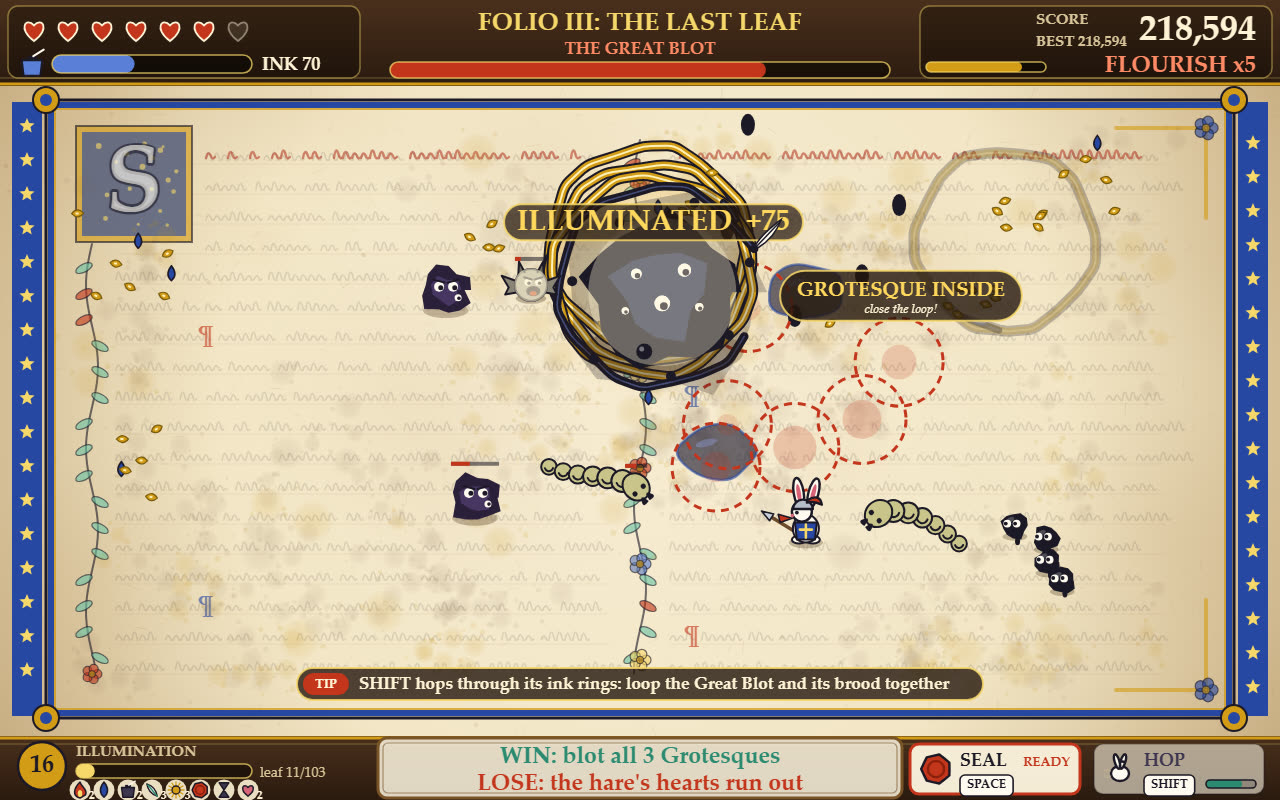
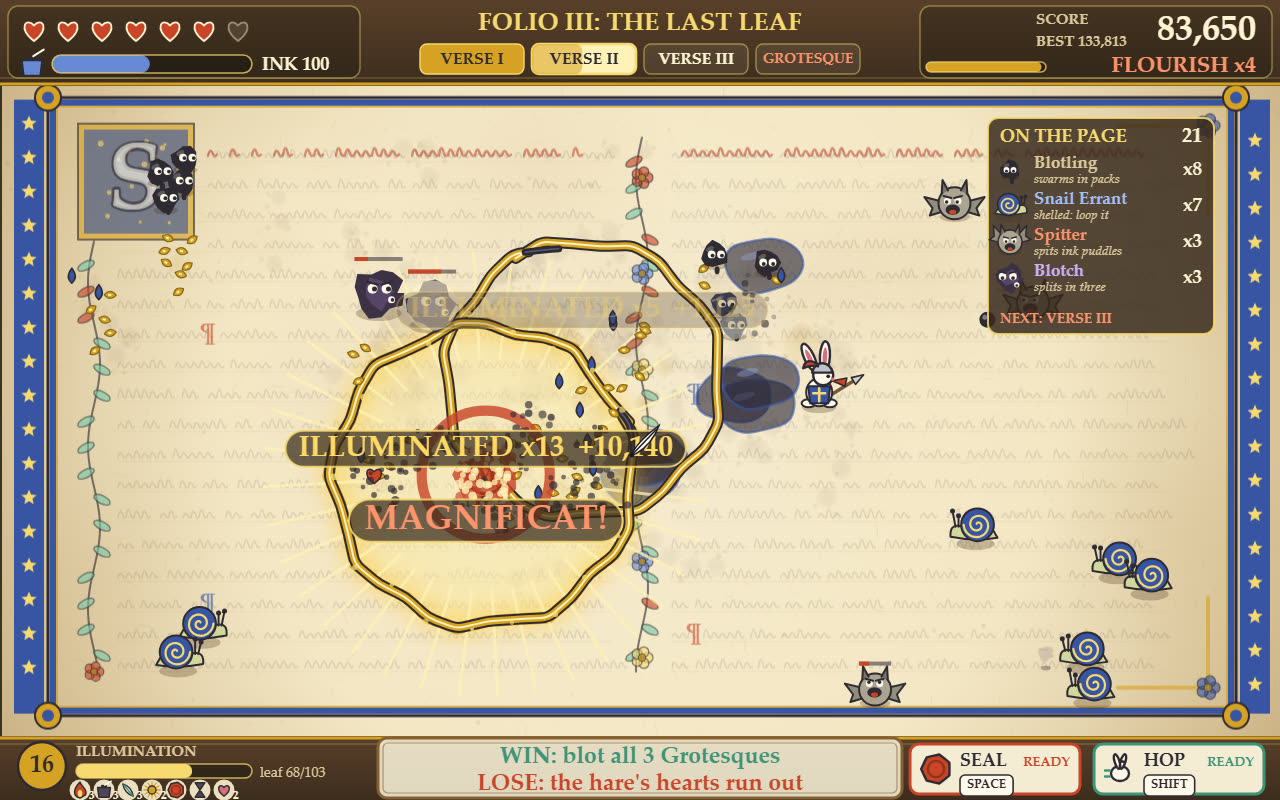
v7: v5 plus an ON THE PAGE roster (each foe kind on the page with its count, what it does, and what comes next)
Reverts v6's cover and HUD additions (v6 scored lower than v5).

diff --git a/game/src/ui/hud.js b/game/src/ui/hud.js
@@ -1,9 +1,9 @@
 // The heads-up display around the page: hearts and ink (left), folio, verse and boss (centre),
 // score, best and Flourish (right); level, rubrics, the win/lose rule and cooldowns (bottom).
-import { FONT, HUD, PAGE, PALETTE, SEAL, VIEW } from '../config.js';
-import { FOLIOS, NUMERALS, versePrompt } from '../sim/director.js';
-import { clamp, pointInPolygon } from '../sim/geometry.js';
-import { isFrozen } from '../sim/run.js';
+import { HUD, PAGE, PALETTE, SEAL, VIEW } from '../config.js';
+import { FOE_KINDS } from '../sim/foes.js';
+import { drawFoe } from '../art/foeArt.js';
+import { FOLIOS, NUMERALS } from '../sim/director.js';
 import { BOSSES } from '../sim/bosses.js';
 import { FLOURISH_WINDOW } from '../sim/scoring.js';
 import { RUBRICS, rubricById } from '../sim/rubrics.js';
@@ -212,75 +212,65 @@ function drawFirstLoopHint(ctx, run, time) {
   text(ctx, 'Hold the LEFT MOUSE BUTTON and draw a circle around the blots', cx + 24, y + 7, { size: 19, align: 'center' });
 }
 
-/** A dark gold-edged lozenge, the same as the big score popups. */
-function lozenge(ctx, x, y, w, h) {
-  ctx.fillStyle = 'rgba(36, 22, 14, 0.8)';
-  roundRect(ctx, x, y, w, h, h / 2);
+const ROLES = {
+  blotling: ['swarms in packs', '#d9c49a'],
+  wasp: ['flies over ink', '#ffd75e'],
+  snail: ['shelled: loop it', '#9db8ff'],
+  spitter: ['spits ink puddles', '#ff8a66'],
+  worm: ['loop its middle', '#e8d9a0'],
+  blotch: ['splits in three', '#c9a8ff'],
+};
+
+/** The roll of foes on the page, by kind, with what each does and what comes next. */
+function drawRoster(ctx, run, time) {
+  if (run.offer || run.stage === 'won' || run.stage === 'lost') return;
+  const counts = {};
+  let total = 0;
+  for (const f of run.foes) {
+    if (f.dead || f.boss || !ROLES[f.kind]) continue;
+    counts[f.kind] = (counts[f.kind] || 0) + 1;
+    total += 1;
+  }
+  const kinds = Object.keys(counts).sort((a, b) => counts[b] - counts[a]);
+  const x = PAGE.right - 236;
+  const y = PAGE.top + 8;
+  const w = 226;
+  const h = 72 + kinds.length * 36;
+  const p = run.player;
+  const near = (p.x > x - 50 && p.y < y + h + 50) || (run.ink.current && run.ink.current.maxX > x - 10 && run.ink.current.minY < y + h);
+  ctx.save();
+  ctx.globalAlpha = near ? 0.3 : 1;
+  ctx.fillStyle = 'rgba(36, 22, 14, 0.84)';
+  roundRect(ctx, x, y, w, h, 10);
   ctx.fill();
   ctx.strokeStyle = 'rgba(247, 215, 106, 0.85)';
   ctx.lineWidth = 2;
   ctx.stroke();
-}
-
-/** While the quill is down, count the foes the stroke would close around, beside the nib. */
-function drawLoopGauge(ctx, run) {
-  const stroke = run.ink.current;
-  if (!stroke || stroke.points.length < 10 || isFrozen(run)) return;
-  const pts = stroke.points;
-  const tail = pts[pts.length - 1];
-  const head = pts[0];
-  if (Math.hypot(tail.x - head.x, tail.y - head.y) > 420) return;
-  let n = 0;
-  let boss = false;
-  for (const f of run.foes) {
-    if (f.dead || f.emerge > 0 || !pointInPolygon(f.x, f.y, pts)) continue;
-    if (f.boss) boss = true;
-    else n += 1;
-  }
-  if (!n && !boss) return;
-  const label = boss ? (n ? `GROTESQUE + ${n} INSIDE` : 'GROTESQUE INSIDE') : `${n} INSIDE`;
-  ctx.font = `bold 20px ${FONT}`;
-  const w = Math.max(ctx.measureText(label).width, 128) + 34;
-  const x = clamp(tail.x + 26, PAGE.left + 4, PAGE.right - w - 4);
-  const y = clamp(tail.y + 22, PAGE.top + 4, PAGE.bottom - 58);
-  lozenge(ctx, x, y, w, 50);
-  text(ctx, label, x + w / 2, y + 21, { size: 20, color: '#ffd75e', align: 'center', baseline: 'middle' });
-  text(ctx, 'close the loop!', x + w / 2, y + 39, { size: 13, color: CREAM, align: 'center', baseline: 'middle', weight: 'normal', italic: true });
-}
-
-const BOSS_TIPS = {
-  gastropod: 'Darts glance off the shell: LOOP the Abbot to crack it, then strike',
-  wyrm: 'Loop across the Bookwyrm: every segment caught inside is struck',
-  blot: 'SHIFT hops through its ink rings: loop the Great Blot and its brood together',
-};
-
-/** A ribbon at the foot of the page with the lesson of this verse, or the Grotesque's weakness. */
-function drawTipRibbon(ctx, run) {
-  if (run.banner || run.offer || (run.folio === 0 && run.stats.illuminated === 0)) return;
-  let tip = null;
-  if (run.stage === 'boss' && run.boss) tip = BOSS_TIPS[run.boss.kind];
-  else if (run.stage === 'verse') tip = versePrompt(run);
-  if (!tip) return;
-  const p = run.player;
-  const y = PAGE.bottom - 40;
-  ctx.font = `bold 17px ${FONT}`;
-  const w = ctx.measureText(tip).width + 96;
-  const x = VIEW.w / 2 - w / 2;
-  const near = p.x > x - 40 && p.x < x + w + 40 && p.y > y - 60;
-  ctx.save();
-  ctx.globalAlpha = near ? 0.3 : 1;
-  lozenge(ctx, x, y, w, 32);
-  ctx.fillStyle = PALETTE.vermilion;
-  roundRect(ctx, x + 6, y + 5, 46, 22, 11);
-  ctx.fill();
-  text(ctx, 'TIP', x + 29, y + 17, { size: 13, color: CREAM, align: 'center', baseline: 'middle' });
-  text(ctx, tip, x + 62, y + 17, { size: 17, color: CREAM, baseline: 'middle' });
+  text(ctx, 'ON THE PAGE', x + 12, y + 24, { size: 18, color: PALETTE.goldLight });
+  text(ctx, `${total}`, x + w - 12, y + 24, { size: 20, color: CREAM, align: 'right' });
+  kinds.forEach((kind, i) => {
+    const ry = y + 52 + i * 36;
+    const def = FOE_KINDS[kind];
+    ctx.save();
+    ctx.translate(x + 22, ry);
+    ctx.scale(0.75, 0.75);
+    drawFoe(ctx, { kind, x: 0, y: 0, r: Math.min(def.r, 18), vx: 0, vy: 0, hp: 1, maxHp: 1, emerge: 0, stun: 0, flash: 0, crack: 0, slow: 0, gild: 0, timer: 2, phase: i, facing: 0, segments: null }, time + i, { x: 0, y: 120 });
+    ctx.restore();
+    text(ctx, def.name.replace('Gargoyle ', '').replace('Scribble ', ''), x + 46, ry - 2, { size: 17, color: ROLES[kind][1] });
+    text(ctx, ROLES[kind][0], x + 46, ry + 13, { size: 13, color: MUTED, weight: 'normal', italic: true });
+    text(ctx, `x${counts[kind]}`, x + w - 12, ry + 5, { size: 19, color: CREAM, align: 'right' });
+  });
+  const folio = FOLIOS[run.folio];
+  let next;
+  if (run.stage === 'boss' || run.stage === 'bossIntro') next = 'GROTESQUE ON THE PAGE';
+  else if (run.verse + 1 < folio.verses.length) next = `NEXT: VERSE ${NUMERALS[run.verse + 1]}`;
+  else next = `NEXT: ${BOSSES[folio.boss].name}`;
+  text(ctx, next, x + 12, y + h - 11, { size: 14, color: BRIGHT_RED });
   ctx.restore();
 }
 
 export function drawHud(ctx, run, best, time) {
-  drawTipRibbon(ctx, run);
-  drawLoopGauge(ctx, run);
+  drawRoster(ctx, run, time);
   binding(ctx, 0, HUD.topBand, HUD.topBand - 2);
   binding(ctx, HUD.bottomBand, VIEW.h, HUD.bottomBand + 2);
   inset(ctx, 8, 6, 352, HUD.topBand - 14);

diff --git a/game/src/shots.js b/game/src/shots.js
@@ -62,20 +62,6 @@ const SCENES = {
     const good = (run, events) => run.time >= 130 && crowded(run) >= 20 && run.ink.level >= run.ink.max * 0.4 && run.flourish.mult >= 2 && events.some((e) => e.type === 'loop' && e.n >= 7 && Math.abs(e.x - 640) < 280 && Math.abs(e.y - 410) < 170);
     let game = null;
     let found = false;
-    // first choice: the last Grotesque, the Great Blot, fought with hearts to spare, a loop just
-    // gilded around it and the quill already three-quarters round the next one
-    for (let s = seed; s < seed + 10 && !found; s += 1) {
-      game = newGame(s, 'scribe');
-      let lastLoop = -9;
-      const atBlot = (run) => run.folio === 2 && run.stage === 'boss' && run.boss && run.boss.emerge <= 0;
-      const fight = (run, events) => {
-        if (events.some((e) => e.type === 'loop' && e.n >= 1)) lastLoop = run.time;
-        if (!atBlot(run) || run.player.hearts < 4 || run.boss.hp > run.boss.maxHp * 0.8 || run.boss.hp < run.boss.maxHp * 0.25) return false;
-        const pl = game.pilot;
-        return run.time - lastLoop < 0.9 && run.flourish.mult >= 3 && crowded(run) >= 6 && pl.plan && pl.step > pl.plan.length * 0.74 && pl.step < pl.plan.length * 0.86;
-      };
-      found = playUntil(game, fight, 900);
-    }
     for (let s = seed; s < seed + 12 && !found; s += 1) {
       game = newGame(s, 'scribe', true, 6);
       found = playUntil(game, good, 420);
@@ -85,7 +71,7 @@ const SCENES = {
       playUntil(game, (run) => run.time >= 168, 400);
       playUntil(game, (run, events) => crowded(run) >= 22 && events.some((e) => e.type === 'loop' && e.n >= 5), 120);
     }
-    if (!game.pilot.plan) playUntil(game, () => false, 0.12);
+    playUntil(game, () => false, 0.12);
     const { run, fx, pilot } = game;
     drawWorld(ctx, run, fx, run.time);
     drawHud(ctx, run, ledger.best.scribe, run.time);

diff --git a/game/src/sim/director.js b/game/src/sim/director.js
@@ -121,7 +121,7 @@ export function updateDirector(run, dt) {
 }
 
 /** Short hint shown under each verse banner, teaching one idea at a time. */
-export function versePrompt(run) {
+function versePrompt(run) {
   const hints = [
     ['Loop several blots at once for a bigger strike', 'Wasps fly over ink: dart them or loop them', 'Snail shells shrug off darts: loop to crack them'],
     ['Gargoyles spit ink puddles that slow you', 'A Blotch splits in three: catch the brood', 'Bookworms are long: loop their middle'],
